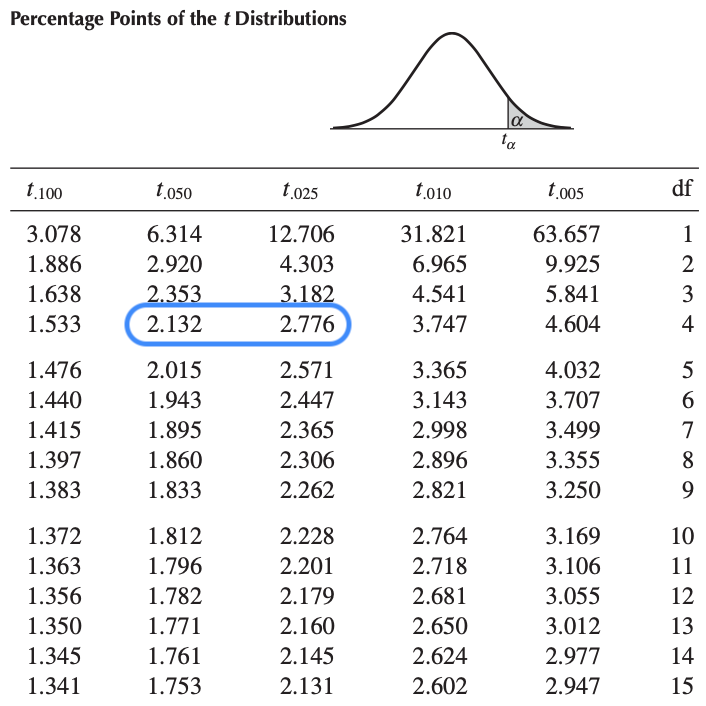
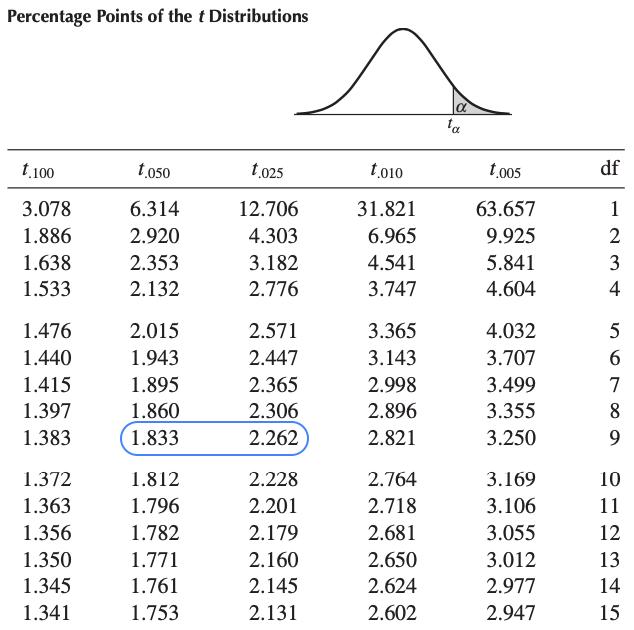
edit post hypothesis test by hand

diff --git a/content/blog/2021-01-27-hypothesis-test-by-hand.html b/content/blog/2021-01-27-hypothesis-test-by-hand.html
@@ -24,41 +24,41 @@ output:
 
 <div id="TOC">
 <ul>
-<li><a href="#descriptive-versus-inferential-statistics">Descriptive versus inferential statistics</a></li>
-<li><a href="#motivations-and-limitations">Motivations and limitations</a></li>
-<li><a href="#hypothesis-test">Hypothesis test</a>
+<li><a href="#descriptive-versus-inferential-statistics" id="toc-descriptive-versus-inferential-statistics">Descriptive versus inferential statistics</a></li>
+<li><a href="#motivations-and-limitations" id="toc-motivations-and-limitations">Motivations and limitations</a></li>
+<li><a href="#hypothesis-test" id="toc-hypothesis-test">Hypothesis test</a>
 <ul>
-<li><a href="#why">Why?</a></li>
-<li><a href="#when">When?</a></li>
-<li><a href="#how">How?</a>
+<li><a href="#why" id="toc-why">Why?</a></li>
+<li><a href="#when" id="toc-when">When?</a></li>
+<li><a href="#how" id="toc-how">How?</a>
 <ul>
-<li><a href="#method-a-comparing-the-test-statistic-with-the-critical-value">Method A: Comparing the test statistic with the critical value</a>
+<li><a href="#method-a-comparing-the-test-statistic-with-the-critical-value" id="toc-method-a-comparing-the-test-statistic-with-the-critical-value">Method A: Comparing the test statistic with the critical value</a>
 <ul>
-<li><a href="#step-1-stating-the-null-and-alternative-hypothesis">Step #1: Stating the null and alternative hypothesis</a></li>
-<li><a href="#step-2-computing-the-test-statistic">Step #2: Computing the test statistic</a></li>
-<li><a href="#step-3-finding-the-critical-value">Step #3: Finding the critical value</a></li>
-<li><a href="#step-4-concluding-and-interpreting-the-results">Step #4: Concluding and interpreting the results</a>
+<li><a href="#step-1-stating-the-null-and-alternative-hypothesis" id="toc-step-1-stating-the-null-and-alternative-hypothesis">Step #1: Stating the null and alternative hypothesis</a></li>
+<li><a href="#step-2-computing-the-test-statistic" id="toc-step-2-computing-the-test-statistic">Step #2: Computing the test statistic</a></li>
+<li><a href="#step-3-finding-the-critical-value" id="toc-step-3-finding-the-critical-value">Step #3: Finding the critical value</a></li>
+<li><a href="#step-4-concluding-and-interpreting-the-results" id="toc-step-4-concluding-and-interpreting-the-results">Step #4: Concluding and interpreting the results</a>
 <ul>
-<li><a href="#why-dont-we-accept-h_0">Why don’t we accept <span class="math inline">\(H_0\)</span>?</a></li>
+<li><a href="#why-dont-we-accept-h_0" id="toc-why-dont-we-accept-h_0">Why don’t we accept <span class="math inline">\(H_0\)</span>?</a></li>
 </ul></li>
 </ul></li>
-<li><a href="#method-b-comparing-the-p-value-with-the-significance-level-alpha">Method B: Comparing the <em>p</em>-value with the significance level <span class="math inline">\(\alpha\)</span></a>
+<li><a href="#method-b-comparing-the-p-value-with-the-significance-level-alpha" id="toc-method-b-comparing-the-p-value-with-the-significance-level-alpha">Method B: Comparing the <em>p</em>-value with the significance level <span class="math inline">\(\alpha\)</span></a>
 <ul>
-<li><a href="#step-1-stating-the-null-and-alternative-hypothesis-1">Step #1: Stating the null and alternative hypothesis</a></li>
-<li><a href="#step-2-computing-the-test-statistic-1">Step #2: Computing the test statistic</a></li>
-<li><a href="#step-3-computing-the-p-value">Step #3: Computing the <em>p</em>-value</a></li>
-<li><a href="#step-4-concluding-and-interpreting-the-results-1">Step #4: Concluding and interpreting the results</a></li>
+<li><a href="#step-1-stating-the-null-and-alternative-hypothesis-1" id="toc-step-1-stating-the-null-and-alternative-hypothesis-1">Step #1: Stating the null and alternative hypothesis</a></li>
+<li><a href="#step-2-computing-the-test-statistic-1" id="toc-step-2-computing-the-test-statistic-1">Step #2: Computing the test statistic</a></li>
+<li><a href="#step-3-computing-the-p-value" id="toc-step-3-computing-the-p-value">Step #3: Computing the <em>p</em>-value</a></li>
+<li><a href="#step-4-concluding-and-interpreting-the-results-1" id="toc-step-4-concluding-and-interpreting-the-results-1">Step #4: Concluding and interpreting the results</a></li>
 </ul></li>
-<li><a href="#method-c-comparing-the-target-parameter-with-the-confidence-interval">Method C: Comparing the target parameter with the confidence interval</a>
+<li><a href="#method-c-comparing-the-target-parameter-with-the-confidence-interval" id="toc-method-c-comparing-the-target-parameter-with-the-confidence-interval">Method C: Comparing the target parameter with the confidence interval</a>
 <ul>
-<li><a href="#step-1-stating-the-null-and-alternative-hypothesis-2">Step #1: Stating the null and alternative hypothesis</a></li>
-<li><a href="#step-2-computing-the-confidence-interval">Step #2: Computing the confidence interval</a></li>
-<li><a href="#step-3-concluding-and-interpreting-the-results">Step #3: Concluding and interpreting the results</a></li>
+<li><a href="#step-1-stating-the-null-and-alternative-hypothesis-2" id="toc-step-1-stating-the-null-and-alternative-hypothesis-2">Step #1: Stating the null and alternative hypothesis</a></li>
+<li><a href="#step-2-computing-the-confidence-interval" id="toc-step-2-computing-the-confidence-interval">Step #2: Computing the confidence interval</a></li>
+<li><a href="#step-3-concluding-and-interpreting-the-results" id="toc-step-3-concluding-and-interpreting-the-results">Step #3: Concluding and interpreting the results</a></li>
 </ul></li>
 </ul></li>
-<li><a href="#which-method-to-choose">Which method to choose?</a></li>
+<li><a href="#which-method-to-choose" id="toc-which-method-to-choose">Which method to choose?</a></li>
 </ul></li>
-<li><a href="#summary">Summary</a></li>
+<li><a href="#summary" id="toc-summary">Summary</a></li>
 </ul>
 </div>
 
@@ -343,11 +343,11 @@ p_val</code></pre>
 <ol style="list-style-type: decimal">
 <li>The test statistic is -2.189</li>
 <li>We take the absolute value, which gives 2.189</li>
-<li>The value 2.189 is between 2.132 and 2.776 (highlighted in blue in the above table)</li>
-<li>From the column names <span class="math inline">\(t_{.050}\)</span> and <span class="math inline">\(t_{.025}\)</span> related to 2.132 and 2.776, we know that:
+<li>The value 2.189 is between 1.833 and 2.262 (highlighted in blue in the above table)</li>
+<li>From the column names <span class="math inline">\(t_{.050}\)</span> and <span class="math inline">\(t_{.025}\)</span> related to 1.833 and 2.262, we know that:
 <ul>
-<li>the area to the right of 2.132 is 0.05</li>
-<li>the area to the right of 2.776 is 0.025</li>
+<li>the area to the right of 1.833 is 0.05</li>
+<li>the area to the right of 2.262 is 0.025</li>
 </ul></li>
 <li>So we know that the area to the right of 2.189 must be between 0.025 and 0.05</li>
 <li>Since the Student distribution is symmetric, we know that the area to the left of -2.189 must also be between 0.025 and 0.05</li>
@@ -397,9 +397,9 @@ p_val</code></pre>
 <p>Given our data and with <span class="math inline">\(\alpha\)</span> = 0.05, we have:</p>
 <p><span class="math display">\[
 \begin{aligned}
- 95\text{% CI for } \mu &amp;= \bar{x} \pm t_{\alpha/2, n - 1} \frac{s}{\sqrt{n}} \\
- &amp;= 71 \pm 2.262 \frac{13}{\sqrt{10}} \\
- &amp;= [61.70; 80.30]
+95\text{% CI for } \mu &amp;= \bar{x} \pm t_{\alpha/2, n - 1} \frac{s}{\sqrt{n}} \\
+&amp;= 71 \pm 2.262 \frac{13}{\sqrt{10}} \\
+&amp;= [61.70; 80.30]
 \end{aligned}
 \]</span></p>
 <p>The 95% confidence interval for <span class="math inline">\(\mu\)</span> is [61.70; 80.30] kg. But <strong>what does a 95% confidence interval mean?</strong></p>
@@ -455,7 +455,7 @@ p_val</code></pre>
 </ol>
 <p>As always, if you have a question or a suggestion related to the topic covered in this article, please add it as a comment so other readers can benefit from the discussion.</p>
 </div>
-<div class="footnotes">
+<div class="footnotes footnotes-end-of-document">
 <hr />
 <ol>
 <li id="fn1"><p>Suppose a researcher wants to test whether Belgian women are taller than French women. Suppose a health professional would like to know whether the proportion of smokers is different among athletes and non-athletes. It would take way too long to measure the height of all Belgian and French women and to ask all athletes and non-athletes their smoking habits. So most of the time, decisions are based on a representative sample of the population and not on the whole population. If we could measure the entire population in a reasonable time frame, we would not do any inferential statistics.<a href="#fnref1" class="footnote-back">↩</a></p></li>
